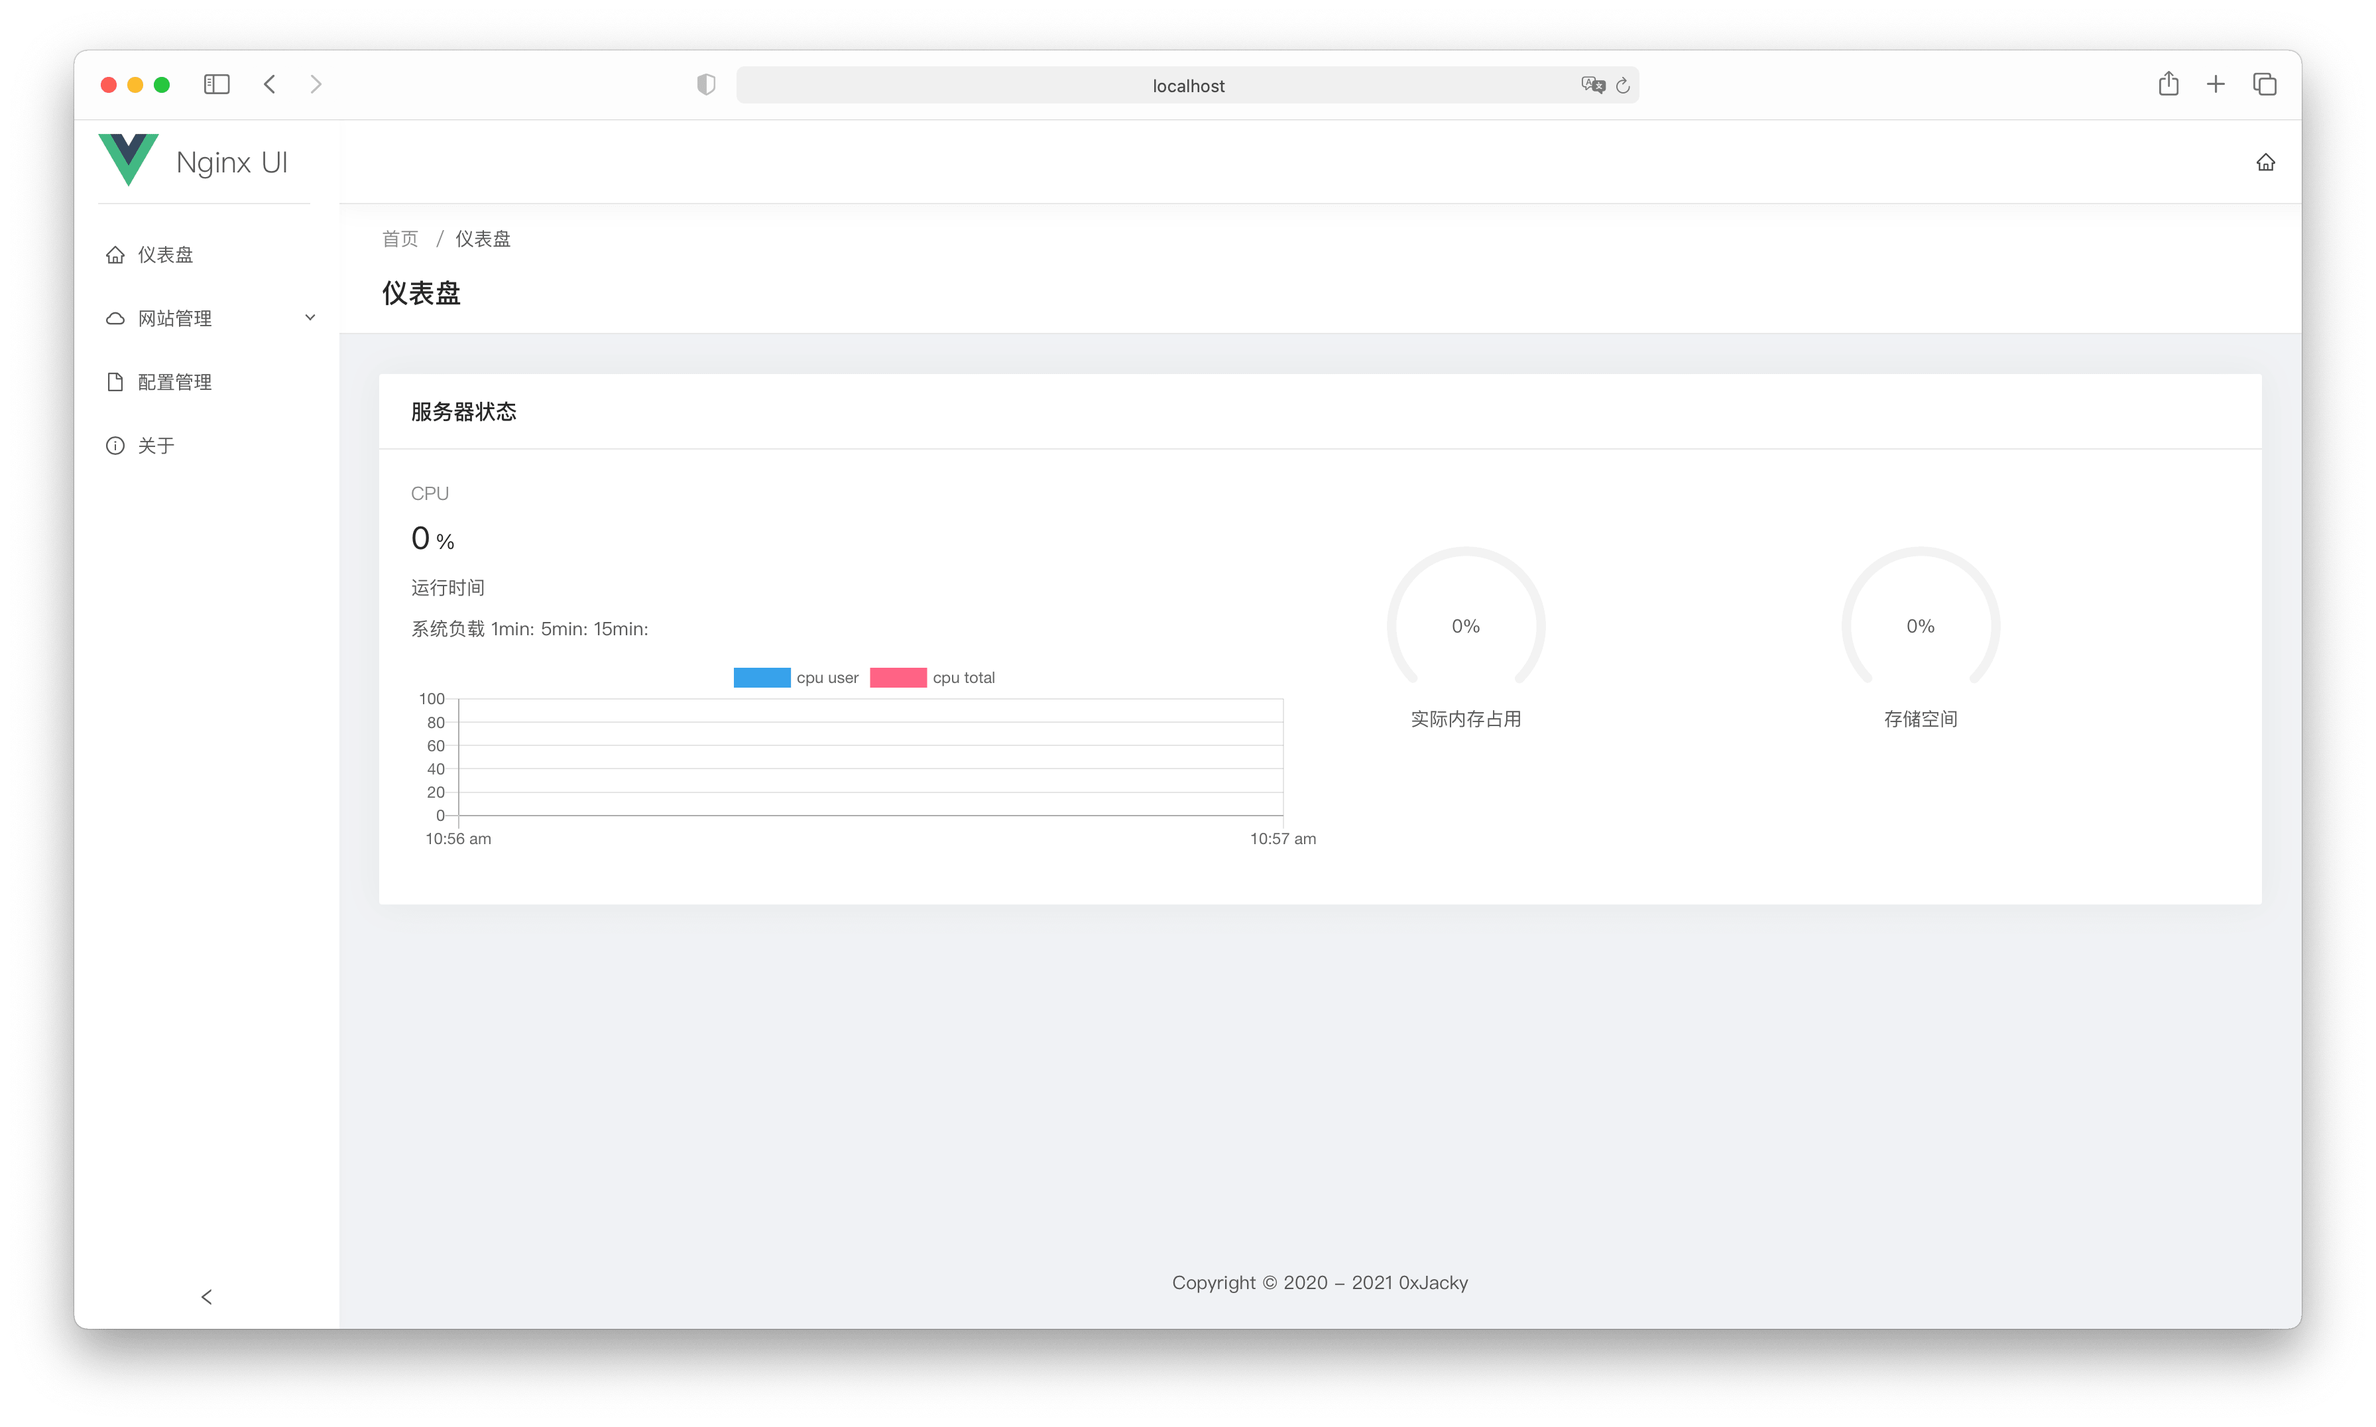
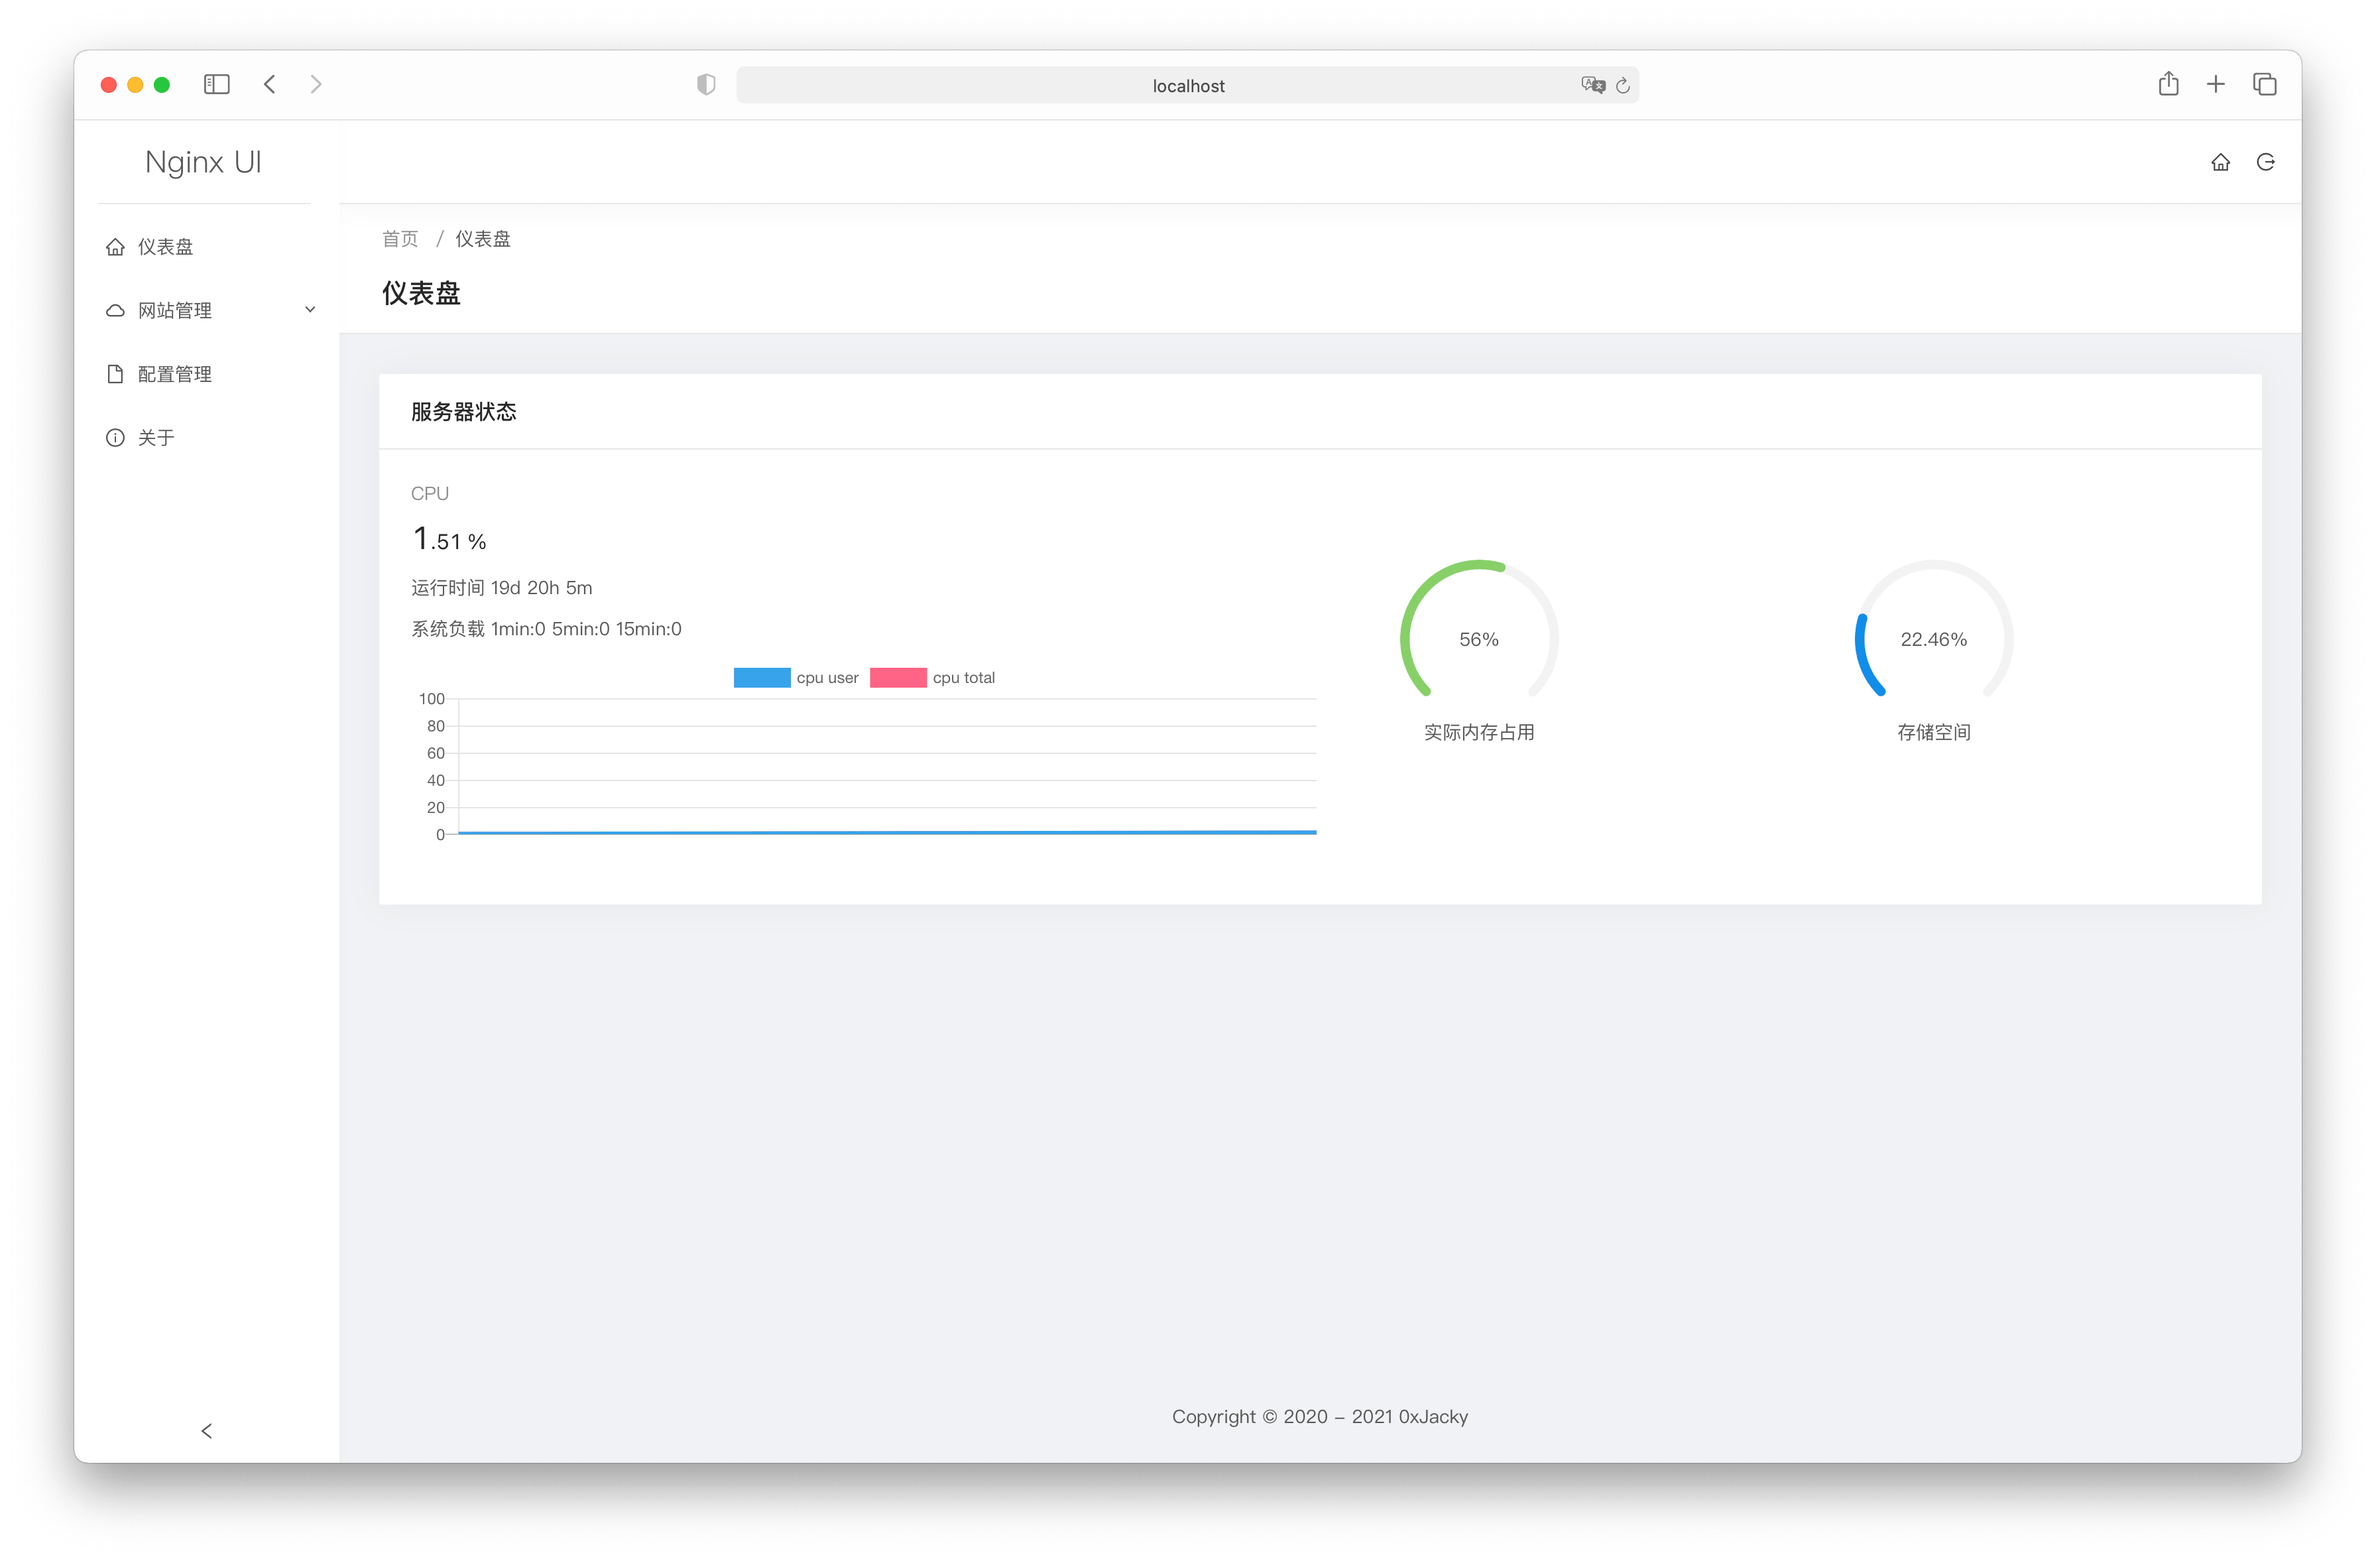
bug fix, update screenshots

diff --git a/nginx-ui-frontend/src/views/DomainEdit.vue b/nginx-ui-frontend/src/views/DomainEdit.vue
@@ -263,37 +263,6 @@ export default {
                 }
             }
 
-        },
-        pressTab(event) {
-            let target = event.target
-            let value = target.value
-            let start = target.selectionStart;
-            let end = target.selectionEnd;
-            if (event) {
-                value = value.substring(0, start) + '\t' + value.substring(end);
-                event.target.value = value;
-                setTimeout(() => target.selectionStart = target.selectionEnd = start + 1, 0);
-            }
-        },
-        pressEnter(event) {
-            let target = event.target
-            let value = target.value
-            let start = target.selectionStart
-            let end = target.selectionEnd
-
-            if (event.key === 'Enter') {
-                let current_line = value.substr(0, start).split("\n").pop(); // line, we are currently on
-                if (current_line && current_line.startsWith('\t')) { // type tab
-                    event.preventDefault();
-                    // detect how many tabs in the begining and apply
-                    let spaces_count = current_line.search(/\S|$/); // position of first non white-space character
-                    let tabs_count = spaces_count ? spaces_count / this.TAB_SIZE : 0
-                    value = value.substring(0, start) + '\n' + '\t'.repeat(tabs_count) + value.substring(end)
-                    event.target.value = value
-                    setTimeout(() => target.selectionStart = target.selectionEnd =
-                        start + this.TAB_SIZE * tabs_count + 1, 0)
-                }
-            }
         }
     }
 }

diff --git a/nginx-ui-frontend/src/views/ConfigEdit.vue b/nginx-ui-frontend/src/views/ConfigEdit.vue
@@ -1,5 +1,5 @@
 <template>
-    <a-card title="配置文件实时编辑">
+    <a-card title="配置文件编辑">
         <vue-itextarea v-model="configText"/>
         <footer-tool-bar>
             <a-button type="primary" @click="save">保存</a-button>
@@ -9,11 +9,11 @@
 
 <script>
 import FooterToolBar from "@/components/FooterToolbar/FooterToolBar"
-
+import VueItextarea from "@/components/VueItextarea/VueItextarea"
 
 export default {
     name: "DomainEdit",
-    components: {FooterToolBar},
+    components: {FooterToolBar, VueItextarea},
     data() {
         return {
             name: this.$route.params.name,

diff --git a/nginx-ui-frontend/src/layouts/HeaderLayout.vue b/nginx-ui-frontend/src/layouts/HeaderLayout.vue
@@ -7,6 +7,10 @@
             <a href="/index.html">
                 <a-icon type="home"/>
             </a>
+
+            <a @click="logout" style="margin-left: 20px">
+                <a-icon type="logout"/>
+            </a>
         </div>
     </div>
 </template>
@@ -15,6 +19,14 @@
 export default {
     name: 'HeaderComponent',
     components: {},
+    methods: {
+        logout() {
+            this.$api.auth.logout().then(() => {
+                this.$message.success('注销成功')
+                this.$router.push('/login')
+            })
+        }
+    }
 }
 </script>
 
